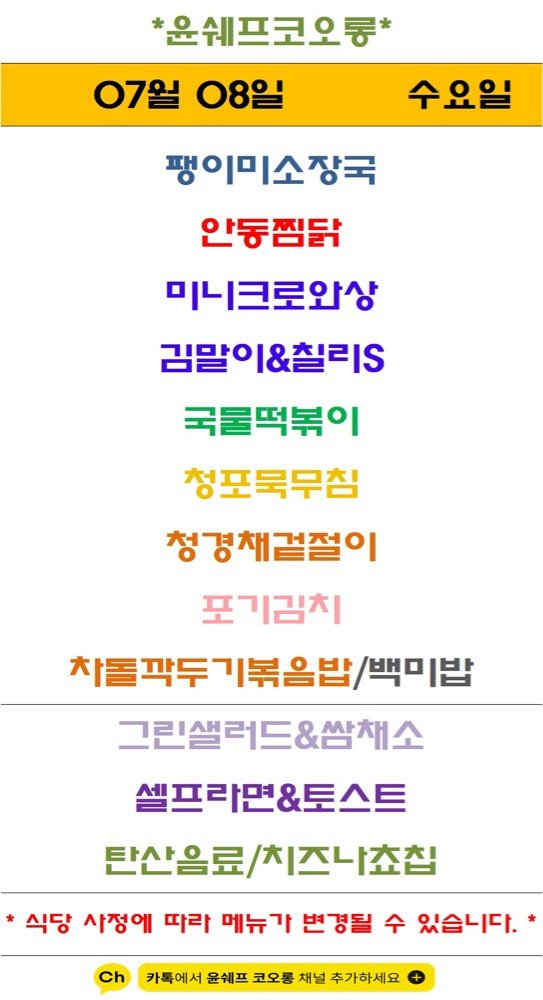
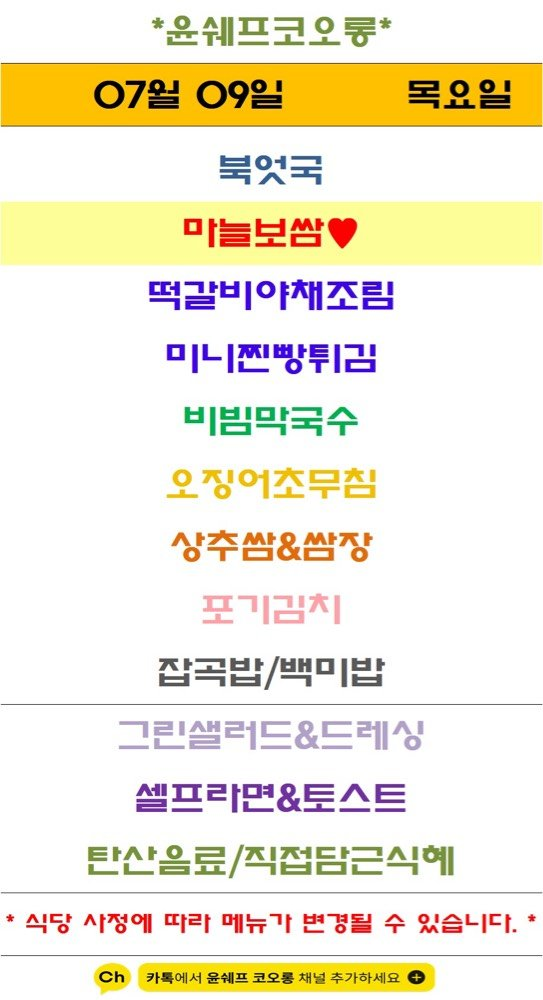
Update menu board assets

diff --git a/guro-menu/index.html b/guro-menu/index.html
@@ -32,7 +32,7 @@
   </header>
   <section class="meta">
     <div><small>기준 날짜</small><strong>2026년 7월 9일 목요일</strong></div>
-    <div><small>최종 갱신</small><strong>2026-07-09 09:04:29</strong></div>
+    <div><small>최종 갱신</small><strong>2026-07-09 09:13:57</strong></div>
     <div><small>등록 식당</small><strong>5개</strong></div>
   </section>
   <div class="notice">공개 카카오 채널의 메뉴 이미지를 자동 수집하고 OCR로 정리합니다. 텍스트에 오타가 있을 수 있으니 식단 이미지를 함께 확인해 주세요.</div>
@@ -103,8 +103,8 @@
           <a class="channel" href="https://pf.kakao.com/_Xxhxkhs" target="_blank" rel="noopener">원본 채널</a>
         </div>
         <img class="menu-image" src="./images/yoon-chef-kolon.png" alt="윤쉐프 코오롱 식단 이미지" loading="lazy">
-        <p class="message">최신 공개 식단 이미지의 텍스트입니다. 날짜는 원본 이미지를 확인해 주세요.</p>
-        <ul><li>팽이미소장국</li><li>안동찜닭</li><li>미니크로와상</li><li>러말이&amp;칠리6</li><li>국물떡볶이</li><li>차돌팍두기볶음밥/백미밥</li><li>그린샐러드&amp;쌈채소</li><li>셀프라면&amp;토스트</li><li>탄산을료/지즈나죠집</li></ul>
+        
+        <ul><li>북엇국</li><li>떡갈비야채조림</li><li>비빔막국수</li><li>잡곡밥/백미밥</li><li>그린샐러드&amp;드레싱</li><li>셀프라면&amp;토스트</li><li>탄슨올료/직접담근식혜</li><li>* 식당 사정에 따라 메뉴가 Som 수 있습니다. *</li></ul>
       </article>
   </section>
   <section class="seo" aria-label="검색 정보">한신IT타워 구내식당 자연푸드 구내식당 더이츠푸드 벽산더이룸 윤쉐프 코오롱 한신IT타워 벽산디지털밸리7차 대륭포스트타워1차 벽산디지털밸리1차 코오롱싸이언스밸리1차 서울 구로구 디지털로 272 한신IT타워 지하1층 서울 구로구 디지털로33길 50 벽산디지털밸리7차 지하1층 서울 구로구 디지털로 288 대륭포스트타워1차 지하1층 서울 구로구 디지털로27길 24 벽산디지털밸리1차 지하1층 서울 구로구 디지털로34길 43 코오롱싸이언스밸리1차 지하1층</section>

diff --git a/menu-today/index.html b/menu-today/index.html
@@ -209,7 +209,7 @@
 
     <section class="meta-bar">
       <div class="meta-card"><div class="meta-label">기준 날짜</div><div class="meta-value">2026년 7월 9일 목요일</div></div>
-      <div class="meta-card"><div class="meta-label">최종 가져온 시간</div><div class="meta-value">2026-07-09 09:04:15</div></div>
+      <div class="meta-card"><div class="meta-label">최종 가져온 시간</div><div class="meta-value">2026-07-09 09:13:43</div></div>
       <div class="meta-card"><div class="meta-label">확인 완료</div><div class="meta-value">9개 식당</div></div>
       <div class="meta-card"><div class="meta-label">준비중</div><div class="meta-value">3개 채널</div></div>
     </section>
